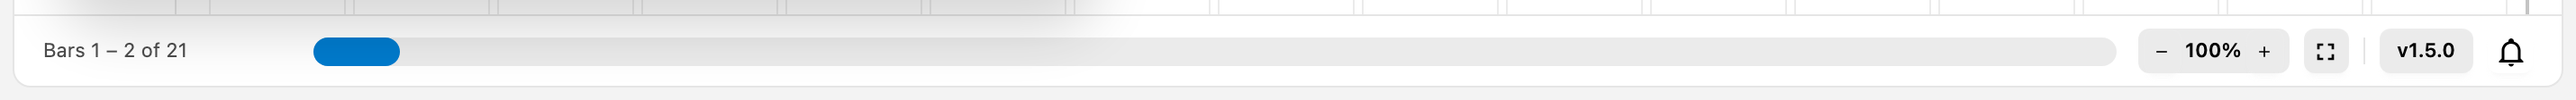
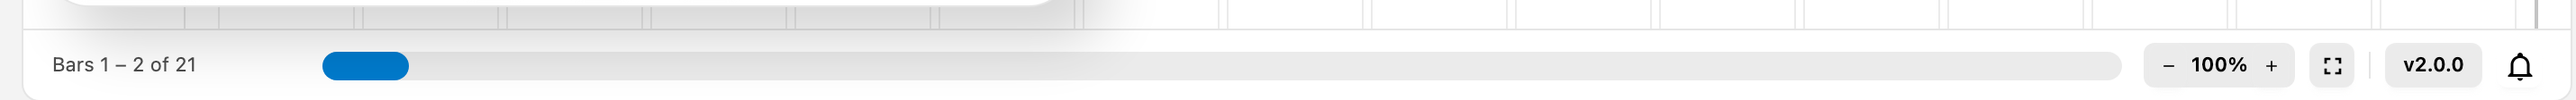
Prepare 2.0.0: release notes, refreshed screenshots, deployment docs
- Set the version to 2.0.0 and add the 2.0.0 section to the release notes
- Re-shoot the nine version-dependent captures for 2.0.0 and list them as a retake trigger in the storyboard
- Extend the release checklist with those captures and with the grep for the previous version
- Add "Running the Backend on a Server" to the installation: working directory, reverse proxy, port binding, trustProxy
- Document the "Not found" symptom together with the health payload that names a wrong working directory
- Correct the database provisioning: database and privileged account must exist before the first start
- State when pending migrations run and that they wait for "Initialize Database" otherwise
- Distinguish the edit-mode refusals for a missing permission and a missing signed-in account
- Add the unpack command and the deployment requirements to the README installation section
- Drop Git's stderr when the packaged server resolves a branch outside a repository

diff --git a/build/migration.ts b/build/migration.ts
@@ -130,7 +130,11 @@ export const sanitizeBranchName = (branch: string): string => {
  */
 const getCurrentBranch = (): string => {
     try {
-        return execSync("git rev-parse --abbrev-ref HEAD", { encoding: "utf-8" }).trim();
+        // The deployment package is not a Git repository, so Git's own complaint is dropped.
+        return execSync("git rev-parse --abbrev-ref HEAD", {
+            encoding: "utf-8",
+            stdio: ["ignore", "pipe", "ignore"],
+        }).trim();
     } catch {
         return "main";
     }

diff --git a/release-notes.md b/release-notes.md
@@ -1,25 +1,35 @@
 # Animada Score Book Release Notes
 
-Version history, newest first. The current release is **1.5.0**.
+Version history, newest first. The current release is **2.0.0**.
+
+## 2.0.0
+
+- Interface: a compact, token-based app shell with a slim header, a floating mode bar for view and entry mode, a draggable tools bar, a restyled playback bar and footer, and overflow menus that keep every action reachable on tablet and phone widths. A failure inside the application now ends on a branded error page with retry, reload, and a report link.
+- Zen mode: the score fills the screen without header or mode bar, pans with the pointer, and keeps the instrument names in the track column. Each bar carries a `Play Focus` switch that confines playback and looping to the marked bars.
+- Selecting and editing: selections are contiguous and keep the granularity they started with — track, bar, note group, or note — and a shared card carries the actions for the selected content. The radial menus of both views are gone; the track sidebar and the selection card hold the actions instead.
+- Staff notation: stems, flags, and beams are derived from one beam line per group, beams slope with their notes, staff rows follow the ink height of their content, and tuplet labels sit above an outer and below a nested tuplet. A rest run takes the value you choose as a single rest instead of rippling the content behind it, a bar with a single event follows its column width, staff lines take their tone from the notation so they stay visible in the high-contrast themes, and a simile shows its stored content while it plays and refuses note entry on itself.
+- Subdivisions: nested tuplets are created from a fractional span, and a copied subdivision can be pasted as a new tuplet, tiled over a span, or dissolved into plain notes.
+- Printing: a full-window print preview arranges the sheet with orientation, per-side borders, print scale, and track selection, shows the score's bar widths with their own resize handles, zooms from 10 % to 400 % with `Fit width` and `Fit page`, and prints with needs-based staff spacing and a reworked page layout.
+- Backend and operations: the backend reports the real database state on start and in the setup dialog instead of assuming a working schema, a failing database reset is reported instead of leaving an empty schema behind, and the seed data now brings the demo scores Ijexá and I-Break in the folder `Common Scores`. Node.js 24.15 or 26 is required.
+- Deployment: `npm run package` produces `animada-score-book-<version>.tar.gz`. Its `server.js` is the backend bundled with all of its dependencies, so an unpacked package starts with `node server.js` and needs no install step.
+- Documentation: a complete English handbook under `docs/en/` with 65 screenshots and notation crops, a rewritten README that links into it instead of repeating it, and this version history. The deployment package ships the handbook, its images, and the README.
+- Renamed and removed: the footer, the print overflow warning, and the selection toolbar say `Bar` instead of `Measure`, `Display Options` is now `Settings`, the onboarding tutorial is disabled for this release (rework tracked in issue #63), and the grid view's radial note menu gave way to the note style bar both views share.
+- Upgrading: scores keep snapshot schema 6, and the database schema and its migrations are unchanged since 1.5.0, so an existing installation runs the new version without a migration step.
 
 ## 1.5.0
 
-- Range dynamics: add crescendo and decrescendo hairpins and forte markings in the staff view, with support for
-  editing, playback, clipboard operations, snapshots, undo and redo, and printing.
+- Range dynamics: add crescendo and decrescendo hairpins and forte markings in the staff view, with support for editing, playback, clipboard operations, snapshots, undo and redo, and printing.
 - Score editing: preserve articulations when pasting and fix selection looping.
-- Editor polish: hide controls unavailable in the grid view, separate repeat controls, and improve toolbar spacing
-  and the grid-view simile sign.
+- Editor polish: hide controls unavailable in the grid view, separate repeat controls, and improve toolbar spacing and the grid-view simile sign.
 - Reliability: dispose animation engines cleanly and surface permission errors.
 
 ## 1.4.0
 
 - Music font rendering: the score draws its notation symbols from the selected music font, with the percussion clef, time signature, noteheads, rests, flags, dots and technique marks coming from the font's own glyphs and catalogue, and staff lines, stems, beams and barlines derived from its engraving defaults. The bundled fonts are verified at build time, and the music font is picked in the settings with a per-font sample and live preview.
-- Repeats: `|:` and `:|` barlines are drawn from the font metrics, stored on the arrangement (undo, clipboard and snapshots included) and played in performed order, as are one-bar repeats (simile) on track pieces. The transport,
-  play range, play head and status bar follow the resolved play order.
+- Repeats: `|:` and `:|` barlines are drawn from the font metrics, stored on the arrangement (undo, clipboard and snapshots included) and played in performed order, as are one-bar repeats (simile) on track pieces. The transport, play range, play head and status bar follow the resolved play order.
 - Staff view performance: only a window of measures is rendered instead of the whole score (26,663 → 6,331 DOM nodes on a 79-measure score, view switch 206 → 44 ms). Measures carry a data-backed width that is resized by dragging the closing barline, travels through copy/paste, undo and snapshots, and packs the print view's rows.
 - Note entry: insert and overwrite modes with a mode button in the toolbar, and the input logic moved into the active measure editor, so the grid and staff views own their cursor, entry values and preview.
-- Selection and editing: note groups (tuplets, beams) are derived from the measure composition, so rendering, hit testing and selection share one rule set; a selection rectangle selects the groups it covers; subdivisions are
-  atomic blocks; subdivisions can be pasted across tracks and mixed ranges; selection rectangles align with the elements they decorate and note decorations highlight in the selection colour.
+- Selection and editing: note groups (tuplets, beams) are derived from the measure composition, so rendering, hit testing and selection share one rule set; a selection rectangle selects the groups it covers; subdivisions are atomic blocks; subdivisions can be pasted across tracks and mixed ranges; selection rectangles align with the elements they decorate and note decorations highlight in the selection colour.
 - Rests: a measure keeps the rest structure it holds, split rests stay visible and selectable, and a whole-measure rest can be selected and addressed like any other run.
 - Snapshot format: the legacy packing readers are gone in favour of a single v5 schema plus BananaDrum share links; measure labels were dropped, and optional data now travels in a versionless extension-chunk container. Schema 6 adds the one-bar repeat mark and upgrades v5 on load.
 - Backend: a full database reset (drop → migrations → seed → anonymous user) from the user menu, which also fixes the setup overwrite path; seeding is idempotent and runs only into an empty database, and the migration runner only maintains the schema.
@@ -27,26 +37,14 @@ Version history, newest first. The current release is **1.5.0**.
 
 ## 1.3.0
 
-- Note editing in the staff view: note entry with note length, note style and articulation toolbars, editing down to
-  single notes, keyboard navigation, backspace removal and rest handling.
-- Per-view measure editors: the grid view keeps its fixed raster and its virtual sub-note projection, while the staff
-  view places notes at free fractions. Making room follows the view — the staff shifts later notes, the grid shortens
-  the new one.
-- Fraction-based measure model: events tile their bar exactly, and selections, clipboard and edits are addressed by
-  model events and fractions instead of DOM position, so a selection survives a reload.
-- Extended notation: dotted note lengths, rest lengths that follow the span, thirty-second notes (entered in the staff
-  view and drawn in the grid as a subdivision of the step), tuplet editing and subdivision selection.
-- Subdivisions can be copied and pasted, and created from the staff view, with the offered split sized by the length
-  of the selected notes.
-- Selection rework: selections are stored as coordinates and resolved back on load, rendered score elements are
-  resolved through a typed DOM registry, measures and events reference their parents, and track ids stay unique across
-  restored scores.
-- Backend: file-based database migrations with branch-specific databases and startup checksum verification, better
-  handling of an unreachable database or a schema mismatch, plus runtime validation and permission cycle detection in
-  the auth code.
-- UI: the codicon font was replaced with tree-shakeable inline SVG Material Design icons, the note length, note style
-  and articulation toolbars got new icons, the collapsible header and the undo/redo selection invalidation were
-  reworked, and the app version is shown in the status bar.
+- Note editing in the staff view: note entry with note length, note style and articulation toolbars, editing down to single notes, keyboard navigation, backspace removal and rest handling.
+- Per-view measure editors: the grid view keeps its fixed raster and its virtual sub-note projection, while the staff view places notes at free fractions. Making room follows the view — the staff shifts later notes, the grid shortens the new one.
+- Fraction-based measure model: events tile their bar exactly, and selections, clipboard and edits are addressed by model events and fractions instead of DOM position, so a selection survives a reload.
+- Extended notation: dotted note lengths, rest lengths that follow the span, thirty-second notes (entered in the staff view and drawn in the grid as a subdivision of the step), tuplet editing and subdivision selection.
+- Subdivisions can be copied and pasted, and created from the staff view, with the offered split sized by the length of the selected notes.
+- Selection rework: selections are stored as coordinates and resolved back on load, rendered score elements are resolved through a typed DOM registry, measures and events reference their parents, and track ids stay unique across restored scores.
+- Backend: file-based database migrations with branch-specific databases and startup checksum verification, better handling of an unreachable database or a schema mismatch, plus runtime validation and permission cycle detection in the auth code.
+- UI: the codicon font was replaced with tree-shakeable inline SVG Material Design icons, the note length, note style and articulation toolbars got new icons, the collapsible header and the undo/redo selection invalidation were reworked, and the app version is shown in the status bar.
 - Removed the legacy selection infrastructure, dead UI components and the `ScoreBookUiServices` wrapper.
 - The architecture decisions made along the way are recorded as ADRs in `docs/adr/`.
 
@@ -59,28 +57,21 @@ Version history, newest first. The current release is **1.5.0**.
 ## 1.1.0
 
 - The backend was rewritten from PHP to Node.js.
-- User and group management with permissions and an audit trail, and backend hardening: CORS configuration, proxy
-  trust, brute-force rate limiting, upload validation and `nosniff`.
+- User and group management with permissions and an audit trail, and backend hardening: CORS configuration, proxy trust, brute-force rate limiting, upload validation and `nosniff`.
 - Notification center with a VS Code-like API, and a status bar.
 - Articulation model with ghost and damped decorations and an accent mark; snapshot format v3.
 - Multi-level selection system; the current selection is persisted and restored on app load.
 - Scores can be loaded and shared through a direct URL.
-- Menu framework components (Menu, MenuBar, MenuItem, TagInput), a collapsible header, and a modal reconnect dialog
-  when the backend goes away.
+- Menu framework components (Menu, MenuBar, MenuItem, TagInput), a collapsible header, and a modal reconnect dialog when the backend goes away.
 - Database schema versioning, awaitable dialogs and a database reset pipeline; `backend-config.json` became optional.
-- Fixes: thirty-second note beams, beat ticks taken from the meter's beat groups, pulse markers in the grid view,
-  staff-view 1:2 subdivision rendering, tuplet label alignment, tuplet detection and nested polyrhythm migration.
+- Fixes: thirty-second note beams, beat ticks taken from the meter's beat groups, pulse markers in the grid view, staff-view 1:2 subdivision rendering, tuplet label alignment, tuplet detection and nested polyrhythm migration.
 - Integration tests against a real database, and more stable Playwright runs in CI.
 
 ## 1.0.0
 
 - First public release: a browser-based score management and playback platform for Samba groups.
-- Score library in a tree view with database-backed storage and fine-grained access control (private, group-shared,
-  world-readable), including user and group administration.
-- Arrangement playback with the Web Audio API: multiple tracks, per-track mixer, tempo and volume control, loop and
-  bar-range playback, metronome with optional count-in.
-- Two display modes, switchable on the fly: the grid view for learning and the notation view for seasoned players,
-  including a minimap and smooth automatic scrolling.
-- Samba-first notation with special note heads and markings for playing techniques, printing of both views, MP3
-  export, and customizable themes.
+- Score library in a tree view with database-backed storage and fine-grained access control (private, group-shared, world-readable), including user and group administration.
+- Arrangement playback with the Web Audio API: multiple tracks, per-track mixer, tempo and volume control, loop and bar-range playback, metronome with optional count-in.
+- Two display modes, switchable on the fly: the grid view for learning and the notation view for seasoned players, including a minimap and smooth automatic scrolling.
+- Samba-first notation with special note heads and markings for playing techniques, printing of both views, MP3 export, and customizable themes.
 - Import of scores from BananaDrum URLs to bring an existing repertoire on board.

diff --git a/docs/en/administration/installation.md b/docs/en/administration/installation.md
@@ -47,12 +47,28 @@ cd animada-score-book-<version>
 
 There is no installation step: `server.js` carries the backend together with `mysql2`, `pg`, `jsonwebtoken`, and `mime-types`, and `dist/` carries the built browser application. The package needs Node.js, and nothing else.
 
+## Running the Backend on a Server
+
+The backend serves the whole application itself: `dist/index.html`, the built assets, the API under `/api`, the sound library under `/soundLib/`, and the files in `public/`. That has two consequences, and both are mandatory for the application to come up:
+
+1. **The working directory of the process is the package directory.** Every path is resolved against it: `dist/`, `public/`, `migrations/`, `build/seed.sql`, and `backend-config.json`. Start the process there:
+
+   ```bash
+   cd /path/to/animada-score-book-<version>
+   JWT_SECRET="<long random value>" node server.js
+   ```
+
+   If the hosting panel starts the process from somewhere else, use `cd /path/to/animada-score-book-<version> && node server.js` as its start command.
+
+2. **The domain points at the process, not at a folder.** Configure the host name as a reverse proxy to the port from `backend-config.json` (`3100` by default). A document root that serves the package directory or `dist/` statically does not work: the browser application calls `/api`, `/soundLib/`, and `/public/uploads/` on the same origin, and only the backend answers those.
+
+**Binding and the front end.** The examples bind to `0.0.0.0`, which is also the default, and most hosters need exactly that: their front end terminates TLS and forwards to the application from another host or container, so a process that listens on `127.0.0.1` disappears from the domain while everything else looks correct. Test it before deviating from the default: switch `host` to `127.0.0.1`, restart, reload the page. When the site stays reachable, the forwarder runs on the same host and the loopback binding keeps the port off the network; when it breaks, keep `0.0.0.0`. Check the port once from outside as well, for example `curl -I https://<host>:3100/`: if it answers, the backend is reachable around the front end and belongs behind a firewall. `"trustProxy"` stays `false` unless the front end overwrites `X-Forwarded-For`, because otherwise any client can claim a foreign address and walk around the login rate limit; [Configuring the Backend](configuration.md) documents both keys.
+
+The package has no `index.html` in its root, and `dist/` is not a document root; both are intentional, because the backend delivers the interface. Check a new deployment with `https://<host>/api?action=health`: it answers `"status":"ok"` together with `"configLoaded":true`, `"database":"…"`, and `"initialized":true`. A `404 Not found` for every address, or `"configLoaded":false`, means the process runs in another directory; a `Server Unreachable` dialog in the browser means the domain is served statically instead of through the backend. [Troubleshooting and Known Limitations](../troubleshooting.md#the-page-shows-not-found) walks through the first symptom.
+
 ## Configuring the Backend
 
-The backend reads `backend-config.json` from the directory it is started in. The file is not optional: it carries
-the database connection, and the backend never creates the database itself. In a hosting environment the database
-and its account are created with the tools of the hoster, which cannot be reached from the application, so these
-values are always supplied by hand.
+The backend reads `backend-config.json` from the directory it is started in. The file is not optional: it carries the database connection, and without a usable database block the browser only reports that the configuration is missing. In a hosting environment the database account and its credentials are supplied by the hoster, which cannot be reached from the application, so these values are always entered by hand.
 
 Create the file from the template:
 
@@ -87,7 +103,7 @@ JWT_SECRET="<long random value>" node server.js
 
 ## Preparing the Database
 
-Create an empty database and a user for it. The backend creates the schema itself, either when the dialog in the browser initialises the database or, with `"autoMigrate": true`, on start, so the database only has to exist. The account needs the right to create tables, indexes, and foreign keys, but not the database itself.
+Create the database and a user for it before the first start. The backend creates the schema inside that database, either when the dialog in the browser initialises it or, with `"autoMigrate": true`, on start; it does not create the database itself. The account needs the right to create tables, indexes, and foreign keys in that database.
 
 MySQL or MariaDB:
 

diff --git a/docs/planning/handbook-2.0/image-refresh-notes.md b/docs/planning/handbook-2.0/image-refresh-notes.md
@@ -1,46 +1,17 @@
 # Image Refresh Notes
 
-- Status: open decision, recorded 2026-10-29
+- Status: resolved 2026-10-29; the checklist variant was chosen
 - Scope: which captures have to be redone when the application version changes
 - Belongs to: Phase 6 of issue #62, validating the release candidate
 
 ## Where the version shows up
 
-`package.json` holds the version, `vite.config.ts` passes it to the application as `appVersion`, and the footer shows
-it in two places: `v<version>` on the release-notes button and `Version <version>` in the compact footer menu. The
-release-notes dialog repeats it in the heading of its newest entry.
+`package.json` holds the version, `vite.config.ts` passes it to the application as `appVersion`, and the footer shows it in two places: `v<version>` on the release-notes button and `Version <version>` in the compact footer menu. The release-notes dialog repeats it in the heading of its newest entry.
 
-Text places are found with a grep for the previous version number across `readme.md`, `docs/` and `release-notes.md`.
-Images are not: the version is baked into their pixels, and no link or asset check sees it. The table below is kept by
-hand until the decision at the end of this page is made.
+Text places are found with a grep for the previous version number across `readme.md`, `docs/` and `release-notes.md`. Images are not: the version is baked into their pixels, and no link or asset check sees it. The list of affected captures is kept by hand.
 
-## Captures that carry the version
+## Decision
 
-Every capture whose frame shows the footer, plus the two that show the version itself:
+**Checklist (2026-10-29).** The list of captures lives in the [storyboard](screenshot-storyboard.md#version-dependent-captures) and counts as a retake trigger there. The release checklist in [documentation.md](../../en/development/documentation.md) re-captures those images and greps the documentation for the previous version. A capture script was rejected for now: it would have to reproduce the capture context the storyboard records, and the checklist covers the nine captures with less machinery.
 
-| ID | File | Why |
-| --- | --- | --- |
-| S-01 | `en/presentation/staff-view.png` | Full window, footer in frame |
-| S-02 | `en/presentation/grid-view.png` | Full window, footer in frame |
-| S-03 | `en/presentation/zen-mode.png` | Zen mode keeps the footer |
-| S-20 | `en/staff-editing/edit-mode.png` | Full window, footer in frame |
-| S-41 | `en/presentation/footer.png` | The footer itself, shows `v<version>` |
-| S-49 | `en/presentation/tablet-grid.png` | Tablet, footer in frame |
-| S-53 | `en/presentation/release-notes.png` | Dialog with the newest version heading |
-| S-58 | `en/presentation/tablet-zen-mode.png` | README hero, footer in frame |
-| S-59 | `en/presentation/tablet-zen-grid.png` | Website hero, footer in frame |
-
-Unaffected: the notation crops, the theme and music-font montages, the print preview, and S-47 on the phone, whose
-footer folds the version into a menu.
-
-## Open decision
-
-1. **Checklist.** Add the version number to the retake triggers of the [storyboard](screenshot-storyboard.md), keep the
-   table above there, and extend the release checklist in
-   [documentation.md](../../en/development/documentation.md) with a step that re-captures these images and greps the
-   documentation for the previous version.
-2. **Capture script.** A versioned script, for example `build/capture-docs.ts`, that regenerates the footer captures
-   from a running backend: login, score fixture, viewport, view, zoom, and the frame composition used for S-58 and
-   S-59. Sturdier than a list, but it has to reproduce the capture context the storyboard records.
-
-Neither variant is implemented yet; this page exists so the decision and the affected files are not lost.
+The nine captures were re-shot for 2.0.0 on 2026-10-29; the storyboard records the capture status.

diff --git a/docs/planning/handbook-2.0/screenshot-storyboard.md b/docs/planning/handbook-2.0/screenshot-storyboard.md
@@ -134,7 +134,7 @@ All P2 motives are captured.
 | S-50 | `en/troubleshooting/connection-lost.png`  | Backend Connection Lost dialog with the database error line                                                 |
 | S-51 | `en/troubleshooting/error-page.png`       | Error page of the error boundary: warning title, retry and reload, GitHub link, collapsed technical details |
 | S-52 | `en/administration/backend-setup.png`     | Backend Setup dialog with engine, host, port and database, offering `Initialize Database`                   |
-| S-53 | `en/presentation/release-notes.png`       | Release notes dialog; shows 1.5.0 and needs a re-capture once 2.0.0 is in                                   |
+| S-53 | `en/presentation/release-notes.png`       | Release notes dialog; shows 2.0.0                                                                           |
 
 Notes on this batch:
 
@@ -160,9 +160,7 @@ Notes on this batch:
 
 All P3 motives are captured.
 
-- `S-41` (footer) and `S-53` (release notes) still show the version `v1.5.0` and the 1.5.0 notes; both are re-captured
-  once 2.0.0 exists. Neither file name carries a version, so a re-capture replaces the image in place. Both are linked
-  from `en/using/presentation.md` already.
+- The nine version-dependent captures were re-shot for 2.0.0 on 2026-10-29; see [Version-Dependent Captures](#version-dependent-captures). Neither file name carries a version, so a re-capture replaces the image in place. All of them are linked from `en/using/presentation.md` and `en/staff-editing.md`, and S-58 from the README.
 
 ## Storyboard
 
@@ -280,4 +278,22 @@ S-05 and S-06 are montages of the same bars. Both are produced from one capture 
 
 ## Retake Triggers
 
-A capture is redone when any of these change: header or footer layout, toolbar layout, default theme, bundled fonts, instrument note styles, print preview controls, or the demo scores. The capture context column names what to keep identical; anything not listed may change freely.
+A capture is redone when any of these change: header or footer layout, toolbar layout, default theme, bundled fonts, instrument note styles, print preview controls, the demo scores, or the application version. The capture context column names what to keep identical; anything not listed may change freely.
+
+## Version-Dependent Captures
+
+The version is baked into the pixels of every capture whose frame shows the footer. No link or asset check sees it, so the list is kept by hand and re-captured together with a version change. File names carry no version, so a re-capture replaces the image in place.
+
+| ID   | File                                  | Why                                    |
+| ---- | ------------------------------------- | -------------------------------------- |
+| S-01 | `en/presentation/staff-view.png`      | Full window, footer in frame           |
+| S-02 | `en/presentation/grid-view.png`       | Full window, footer in frame           |
+| S-03 | `en/presentation/zen-mode.png`        | Zen mode keeps the footer              |
+| S-20 | `en/staff-editing/edit-mode.png`      | Full window, footer in frame           |
+| S-41 | `en/presentation/footer.png`          | The footer itself, shows `v<version>`  |
+| S-49 | `en/presentation/tablet-grid.png`     | Tablet, footer in frame                |
+| S-53 | `en/presentation/release-notes.png`   | Dialog with the newest version heading |
+| S-58 | `en/presentation/tablet-zen-mode.png` | README hero, footer in frame           |
+| S-59 | `en/presentation/tablet-zen-grid.png` | Website hero, footer in frame          |
+
+Unaffected: the notation crops, the theme and music-font montages, the print preview, and S-47 on the phone, whose footer folds the version into a menu.

diff --git a/readme.md b/readme.md
@@ -19,7 +19,7 @@ A score is written for a bateria. Eleven instrument types, from Agogô 2-Bell to
 ## Features
 
 | Area           | What you get                                                                                                                                                                                                        |
-| --- | ------------------------------------------------------------------------------------------------------------------------------------------------------------------------------------------------------------------- |
+| -------------- | ------------------------------------------------------------------------------------------------------------------------------------------------------------------------------------------------------------------- |
 | Score library  | A folder tree of every score you can reach, with permission indicators for own, group-shared, and `World` entries, share links, and score locks that keep two people from editing the same score at once.           |
 | Two views      | A grid view with one symbol per step, for learning and scanning, and a staff view with percussion notation, for playing; switch with `G` and `S`, also during playback.                                             |
 | Notation       | Percussion clef, instrument-specific noteheads, accents, ghost and damped notes, crescendo and decrescendo hairpins with `f` markings, tuplets and nested tuplets, repeats, one-bar repeats, and bars of any width. |
@@ -64,7 +64,9 @@ The English handbook in [`docs/en/`](docs/en/index.md) is the reference for ever
 
 Animada Score Book runs on one server. The backend serves the browser application and talks to MySQL, MariaDB, or PostgreSQL; it needs Node.js 24.15 or 26, a database account that may create tables, indexes, and foreign keys, and HTTPS in front of it, because the session cookie is `Secure`.
 
-Build the deployment package with `npm run package`, unpack it on the server, copy `backend-config.example.json` to `backend-config.json` and fill in the database block, then start it with `JWT_SECRET="<long random value>" node server.js`. A successful start logs `Backend server listening on http://127.0.0.1:3100 (bound to 0.0.0.0:3100)`, and the browser wizard afterwards creates the schema and the first administrator account.
+Build the deployment package with `npm run package`, unpack it on the server with `tar -xzf animada-score-book-<version>.tar.gz`, `cd` into the resulting directory, copy `backend-config.example.json` to `backend-config.json` and fill in the database block, then start it with `JWT_SECRET="<long random value>" node server.js`. A successful start logs `Backend server listening on http://127.0.0.1:3100 (bound to 0.0.0.0:3100)`, and the browser wizard afterwards creates the schema and the first administrator account.
+
+The backend serves the interface itself, so a deployment needs two things: `node server.js` started **with the unpacked package as the working directory**, and the domain pointed at that process as a reverse proxy. The package carries no `index.html` in its root and `dist/` is not a document root; a statically served folder cannot answer `/api`, `/soundLib/`, or `/public/uploads/`.
 
 [Installing Animada Score Book](docs/en/administration/installation.md) covers the package contents, database preparation, the first start, HTTPS, and upgrades; [Configuring the Backend](docs/en/administration/configuration.md) documents every key and environment variable.
 

diff --git a/docs/en/troubleshooting.md b/docs/en/troubleshooting.md
@@ -13,6 +13,26 @@ When the browser cannot reach the backend at startup, it shows `Server Unreachab
 
 The process exits immediately when the port is taken: `Port <port> is already in use.`
 
+## The Page Shows `Not found`
+
+A deployment that answers every address with the plain text `Not found` is reaching the backend, but the process was started in the wrong directory. Every path the backend serves is relative to its working directory: `dist/index.html`, `public/`, `migrations/`, `build/seed.sql`, and `backend-config.json`. Started inside the `dist` subdirectory, it looks for `dist/dist/index.html` and `dist/backend-config.json`, finds neither, and answers `404` with that text.
+
+The health endpoint names the cause instead of hiding it:
+
+```json
+{"configLoaded":false,"configError":"No backend-config.json found. Missing database settings: database.host, database.port, database.database, database.user.","engine":"mysql","host":"","port":0,"database":"","status":"error","dbStatus":"db_unreachable","initialized":false,"hasData":false,"hasUsers":false}
+```
+
+`configLoaded: false` together with that `configError` means the process could not read `backend-config.json` from its working directory. The database is not the problem; the `Database unreachable` line is only a consequence of the empty connection settings.
+
+To fix it:
+
+1. Start the process in the package directory, where `server.js`, `dist/`, `public/`, `migrations/`, `build/`, and `backend-config.json` sit — not in `dist`. [Installing Animada Score Book](administration/installation.md#running-the-backend-on-a-server) states both requirements of a deployment.
+2. Route the domain to that process, for example through a reverse proxy on its port. `/api`, `/soundLib/`, and `/public/uploads/` are answered by the backend only, so a document root that points at `dist` cannot serve the application.
+3. `https://<host>/api?action=health` should then report `"status":"ok"` with `"configLoaded":true` and `"initialized":true`.
+
+The opposite misconfiguration has the opposite symptom: a statically served `dist` loads the interface, which then reports `Server Unreachable` because it cannot reach `/api`.
+
 ## The Connection Is Lost during a Session
 
 A broken connection during work opens a dialog with `Reconnecting… (attempt <n>)`. The application retries every three seconds and closes the dialog shortly after the backend answers again. Unsaved changes stay in the browser and are not lost; save once the connection is back.

diff --git a/docs/planning/handbook-2.0/coverage-checklist.md b/docs/planning/handbook-2.0/coverage-checklist.md
@@ -185,7 +185,7 @@
 | I-01 | Requirements: Node.js version, database engines, operating systems                  | `package.json` engines, CI                       | `administration/installation.md`             | —     | Node `^24.15.0                                               |  | ^26.0.0`; fixes the stale README claim |
 | I-02 | Deployment package: contents, layout, unpacking                                     | new `npm run package` (decision)                 | `administration/installation.md`             | —     | See `audit.md` → Deployment package                          |
 | I-03 | Directory layout of an installation                                                 | backend, `dist/`, `public/`, `migrations/`, seed | `administration/installation.md`             | —     | Server serves `dist/` and `public/` itself                   |
-| I-04 | Database preparation, empty database, privileges                                    | `build/migration.ts`                             | `administration/installation.md`             | —     | Database is created when missing                             |
+| I-04 | Database preparation, empty database, privileges                                    | `build/migration.ts`                             | `administration/installation.md`             | —     | Database and account must exist before the first start       |
 | I-05 | Starting the backend, log output, port conflict                                     | `npm run start`                                  | `administration/installation.md`             | —     | Port in use exits with a message                             |
 | I-06 | Reverse proxy, TLS termination, forwarded headers                                   | `trustProxy`, `allowedOrigins`                   | `administration/installation.md`             | —     | Refresh cookie is `Secure`; plain HTTP breaks refresh        |
 | I-07 | First-run backend setup dialog (`Initialize Database`, `Reset Database`)            | `BackendSetupDialog`                             | `administration/installation.md`             | S-52  | Also a troubleshooting path                                  |

diff --git a/docs/en/development/documentation.md b/docs/en/development/documentation.md
@@ -51,12 +51,14 @@ Two rules follow from that split:
 
 1. Walk the changed features against the affected chapters; the coverage checklist in `docs/planning/handbook-2.0/` names a destination for every feature.
 2. Update the affected pages and re-capture the screenshots that show changed interface parts.
-3. Update `readme.md` when the feature summary, an entry point, or a showcase image changed. It links into this handbook and repeats no chapter content.
-4. Check the [known limitations](../troubleshooting.md) table: removed limitations leave the table, new ones enter it.
-5. Link new decision records from [Architecture and Decisions](architecture.md) when a change introduced one.
-6. Write the release notes in `release-notes.md`, separate from the handbook.
-7. Verify the links and image references of `docs/en/` and `readme.md` before tagging the release.
-8. Hand the release tag to the website project.
+3. Re-capture the version-dependent images: every capture whose frame shows the footer carries the application version in its pixels, and the release-notes dialog shows the newest entry. The list is the table in the [storyboard](../../planning/handbook-2.0/screenshot-storyboard.md#version-dependent-captures).
+4. Grep `readme.md`, `docs/`, and `release-notes.md` for the previous version number; text that quotes it has to change as well.
+5. Update `readme.md` when the feature summary, an entry point, or a showcase image changed. It links into this handbook and repeats no chapter content.
+6. Check the [known limitations](../troubleshooting.md) table: removed limitations leave the table, new ones enter it.
+7. Link new decision records from [Architecture and Decisions](architecture.md) when a change introduced one.
+8. Write the release notes in `release-notes.md`, separate from the handbook.
+9. Verify the links and image references of `docs/en/` and `readme.md` before tagging the release.
+10. Hand the release tag to the website project.
 
 ## Related Chapters
 

diff --git a/docs/en/administration/backup-restore-upgrades.md b/docs/en/administration/backup-restore-upgrades.md
@@ -60,7 +60,7 @@ The backend applies the schema itself:
 - On start it creates or reads `migration_history` and applies every file from `migrations/` that it has not recorded yet, in file-name order.
 - Each applied file is stored with its SHA-256 checksum.
 - A migration file may carry `-- @mysql` and `-- @postgres` sections; the runner executes only the sections for the configured engine, plus everything outside such markers.
-- Pending migrations run in the background right after the process starts; the log lists them, and `Backend initialised: …` appears once the schema is ready.
+- Pending migrations run right after the process starts when `"autoMigrate": true` is set; otherwise they wait for `Initialize Database` in the browser. The log lists them, and `Backend initialised: …` appears once the schema is ready.
 
 ## A Modified Migration File
 
@@ -78,7 +78,7 @@ There are no down migrations and no repair step. The only ways forward are resto
 1. Stop the backend.
 2. Unpack the new package into a new directory.
 3. Copy `backend-config.json` and `public/uploads` from the old installation.
-4. Start the backend with `node server.js`. Pending migrations run automatically.
+4. Start the backend with `node server.js`. With `"autoMigrate": true` the pending migrations run right away; otherwise the browser offers `Initialize Database` once and applies them.
 
 After the upgrade:
 

diff --git a/docs/en/administration/configuration.md b/docs/en/administration/configuration.md
@@ -50,7 +50,7 @@ Replacing the secret invalidates all tokens that were issued with the old one, s
 ## Database Settings
 
 - `engine` selects the adapter. `mysql` and `mariadb` share one adapter; `postgres` uses the other.
-- `host`, `port`, `database`, `user`, and `password` are passed to that adapter unchanged, so the database must already exist.
+- `host`, `port`, `database`, `user`, and `password` are passed to that adapter unchanged, so the database must already exist, together with an account that may create tables, indexes, and foreign keys in it.
 - On start the backend tests the connection. When it succeeds, it logs `Backend connected: <engine> @ <host>:<port>/<database>`; with `"autoMigrate": true` it applies the pending migrations and logs `Backend initialised: …` instead. When the connection fails, it logs `Could not auto-connect: …` and `Waiting for setup from frontend…`, keeps listening, and the browser reports that the database is unreachable.
 - Without `autoMigrate` a database without the application tables stays empty until someone chooses `Initialize Database` in the browser, which applies the migrations and seeds the demo data.
 

diff --git a/docs/en/using/staff-editing.md b/docs/en/using/staff-editing.md
@@ -12,7 +12,7 @@ The `Edit Mode` switch in the header turns into `Editing` when edit mode is acti
 - The editor adds a visible cursor, a bar action strip above the bars, and an action button on every track row.
 - The mode bar gains an `Entry` section next to `View`.
 
-Edit mode requires write access. Without it, the attempt ends with `You do not have permission to edit this score.` If your session has ended, the application asks you to log in again.
+Edit mode requires write access. Without it, the attempt ends with `You do not have permission to edit this score.` Without a signed-in account — as an anonymous visitor, or with a session that has ended — the application says `Your session has ended. Log in again to edit.` and opens the sign-in dialog.
 
 `Save Score` in the header, or `Ctrl`/`Cmd`+`S`, writes the score to the backend. Leaving edit mode saves first and releases the lock; a failed save keeps you in edit mode so nothing is lost.
 
